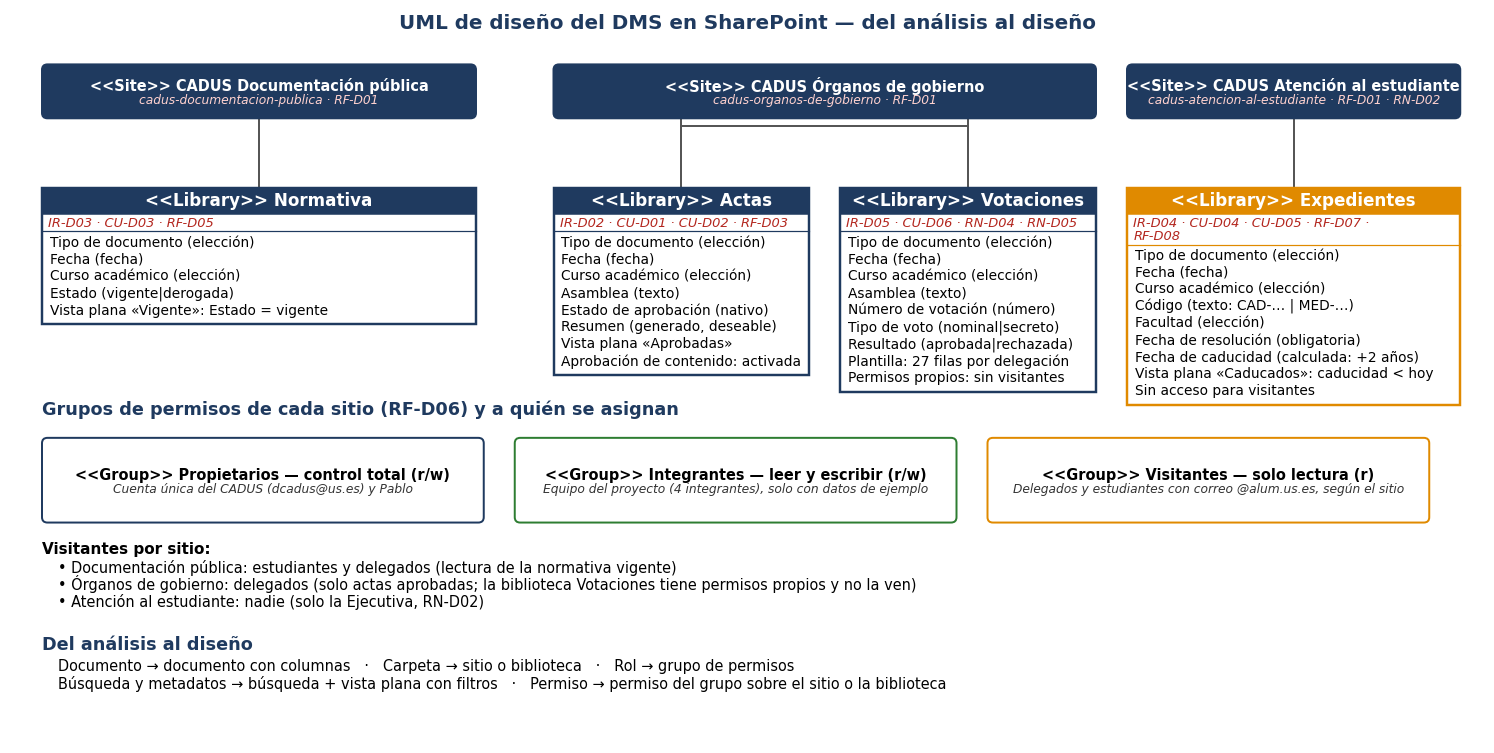
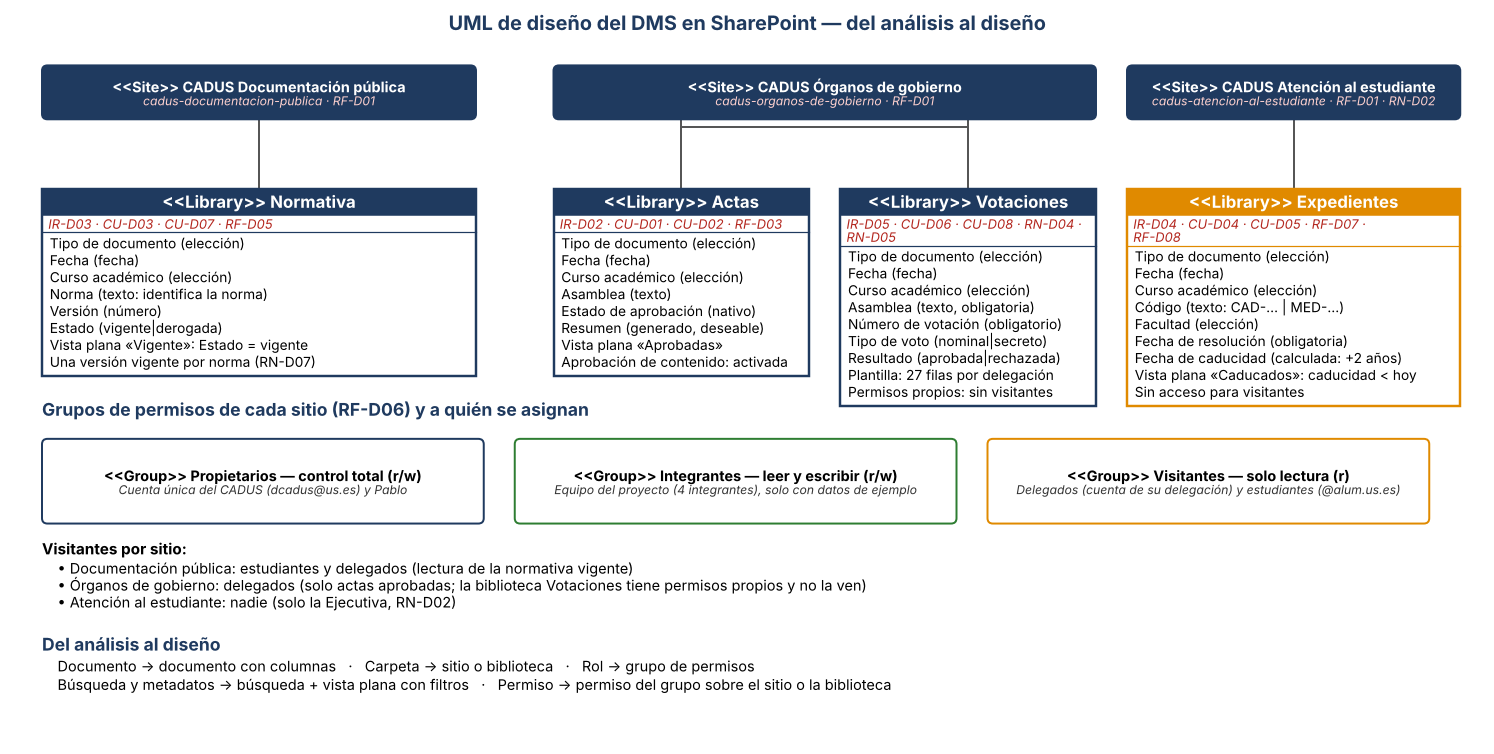
docs(dms): diagramas con 8 casos de uso, columnas Norma y Version y cuenta por delegacion

diff --git a/scripts/dms/diagramas_dms.py b/scripts/dms/diagramas_dms.py
@@ -19,13 +19,13 @@ def analisis():
     W = 340
     carp = clase(ax, 30, 70, W, "Carpeta", "<<Folder>> · RF-D01 · RF-D06", ["nombre (Actas, Normativa,", "   Expedientes, Votaciones)"], VERDE)
     perm = clase(ax, 30, 390, W, "Permiso", "<<Permission>> · RF-D06 · RF-D03 · RN-D01 · RN-D02", ["nivel (leer | leer y escribir)", "sobre una carpeta"], VERDE)
-    rol = clase(ax, 30, 700, W, "Rol", "<<Role>> · RF-D06 · ACT-D01 a ACT-D03", ["nombre (Ejecutiva|Delegado|Estudiante)"])
+    rol = clase(ax, 30, 700, W, "Rol", "<<Role>> · RF-D06 · ACT-D01 a ACT-D03", ["nombre (Ejecutiva|Delegado|Estudiante)", "cuenta (CADUS|delegación|@alum.us.es)"])
     doc = clase(ax, 900, 70, W, "Documento", "<<Document>> · IR-D01 · IR-D06 · RF-D02 · RN-D06", ["tipoDocumento", "fecha", "cursoAcademico", "estado"])
     busq = clase(ax, 1500, 70, 360, "Busqueda", "<<Search>> · RF-D04 · RF-D05 · UI-D02", ["texto (nombre y contenido)", "filtros por metadatos (vista plana)"], VERDE)
     acta = clase(ax, 420, 390, W, "Acta", "<<Document>> · IR-D02 · CU-D01 · CU-D02 · RN-D01", ["asamblea", "estadoAprobacion (borrador|aprobada)", "resumen (deseable, RF-D10)"])
-    norm = clase(ax, 780, 390, W, "Normativa", "<<Document>> · IR-D03 · CU-D03", ["titulo", "anio", "estado (vigente|derogada)"])
+    norm = clase(ax, 780, 390, W, "Normativa", "<<Document>> · IR-D03 · CU-D03 · CU-D07 · RN-D07", ["titulo", "norma (identifica la misma norma)", "version, anio", "estado (vigente|derogada)"])
     exp = clase(ax, 1140, 390, W, "Expediente", "<<Document>> · IR-D04 · CU-D04 · CU-D05 · RF-D07 · RN-D02 · RN-D03", ["codigo (CAD-… | MED-…)", "facultad", "fechaResolucion", "fechaCaducidad (calculada)"])
-    vot = clase(ax, 1500, 390, W + 20, "RegistroVotacion", "<<Document>> · IR-D05 · CU-D06 · RN-D04 · RN-D05", ["asamblea, numeroVotacion", "tipoVoto (nominal|secreto)", "resultado", "27 filas: presente, identidad", "voto (solo si es nominal)"])
+    vot = clase(ax, 1500, 390, W + 20, "RegistroVotacion", "<<Document>> · IR-D05 · CU-D06 · CU-D08 · RN-D04 · RN-D05", ["asamblea, numeroVotacion (obligatorios)", "tipoVoto (nominal|secreto)", "resultado", "27 filas: presente, identidad", "voto (solo si es nominal)"])
     for sub in (acta, norm, exp, vot):
         rel(ax, sub, "arr", doc, "abj", "")
     ax.text(1070, 300, "es un tipo de", ha="center", fontsize=8.5, bbox=dict(fc="white", ec="none", pad=1.2), zorder=6)
@@ -33,7 +33,7 @@ def analisis():
     rel(ax, perm, "arr", carp, "abj", "se concede sobre", "*", "1", dx=64, dy=0)
     rel(ax, rol, "arr", perm, "abj", "tiene", "1", "*", dx=40, dy=0)
     rel(ax, busq, "izq", doc, "der", "encuentra", "*", "*", dy=-18)
-    ax.text(30, 880, "Los casos de uso CU-D01 a CU-D06 y las reglas RN-D01 a RN-D06 están en REM-DMS.md. Los metadatos (IR-D06) son las columnas de Documento; la vista plana (RF-D05) es la forma de aplicar los filtros.", fontsize=8.5, color="#555")
+    ax.text(30, 880, "Los casos de uso CU-D01 a CU-D08 y las reglas RN-D01 a RN-D07 están en REM-DMS.md. Los metadatos (IR-D06) son las columnas de Documento; la vista plana (RF-D05) es la forma de aplicar los filtros.", fontsize=8.5, color="#555")
     guardar(fig, "uml-dms-analisis.png")
 
 
@@ -48,9 +48,9 @@ def diseno():
     for (x, n, t), w in zip(sitios, anchos):
         caja(ax, x, 70, w, 70, "<<Site>> " + n, t, fc=AZUL, ec=AZUL, subcolor="#ffd2cf", titcolor="white")
     cols_comunes = ["Tipo de documento (elección)", "Fecha (fecha)", "Curso académico (elección)"]
-    norm = clase(ax, 40, 230, 560, "<<Library>> Normativa", "IR-D03 · CU-D03 · RF-D05", cols_comunes + ["Estado (vigente|derogada)", "Vista plana «Vigente»: Estado = vigente"])
+    norm = clase(ax, 40, 230, 560, "<<Library>> Normativa", "IR-D03 · CU-D03 · CU-D07 · RF-D05", cols_comunes + ["Norma (texto: identifica la norma)", "Versión (número)", "Estado (vigente|derogada)", "Vista plana «Vigente»: Estado = vigente", "Una versión vigente por norma (RN-D07)"])
     actas = clase(ax, 700, 230, 330, "<<Library>> Actas", "IR-D02 · CU-D01 · CU-D02 · RF-D03", cols_comunes + ["Asamblea (texto)", "Estado de aprobación (nativo)", "Resumen (generado, deseable)", "Vista plana «Aprobadas»", "Aprobación de contenido: activada"])
-    votac = clase(ax, 1070, 230, 330, "<<Library>> Votaciones", "IR-D05 · CU-D06 · RN-D04 · RN-D05", cols_comunes + ["Asamblea (texto)", "Número de votación (número)", "Tipo de voto (nominal|secreto)", "Resultado (aprobada|rechazada)", "Plantilla: 27 filas por delegación", "Permisos propios: sin visitantes"])
+    votac = clase(ax, 1070, 230, 330, "<<Library>> Votaciones", "IR-D05 · CU-D06 · CU-D08 · RN-D04 · RN-D05", cols_comunes + ["Asamblea (texto, obligatoria)", "Número de votación (obligatorio)", "Tipo de voto (nominal|secreto)", "Resultado (aprobada|rechazada)", "Plantilla: 27 filas por delegación", "Permisos propios: sin visitantes"])
     exp = clase(ax, 1440, 230, 430, "<<Library>> Expedientes", "IR-D04 · CU-D04 · CU-D05 · RF-D07 · RF-D08", cols_comunes + ["Código (texto: CAD-… | MED-…)", "Facultad (elección)", "Fecha de resolución (obligatoria)", "Fecha de caducidad (calculada: +2 años)", "Vista plana «Caducados»: caducidad < hoy", "Sin acceso para visitantes"], NARANJA)
     for (x, _, _), (lib, w) in zip(sitios, ((norm, 0), (actas, 0), (exp, 0))):
         pass
@@ -64,7 +64,7 @@ def diseno():
     ax.text(40, 525, "Grupos de permisos de cada sitio (RF-D06) y a quién se asignan", fontsize=11.5, fontweight="bold", color=AZUL)
     grupos = [("<<Group>> Propietarios", "control total (r/w)", "Cuenta única del CADUS (dcadus@us.es) y Pablo", AZUL),
               ("<<Group>> Integrantes", "leer y escribir (r/w)", "Equipo del proyecto (4 integrantes), solo con datos de ejemplo", VERDE),
-              ("<<Group>> Visitantes", "solo lectura (r)", "Delegados y estudiantes con correo @alum.us.es, según el sitio", NARANJA)]
+              ("<<Group>> Visitantes", "solo lectura (r)", "Delegados (cuenta de su delegación) y estudiantes (@alum.us.es)", NARANJA)]
     for i, (n, nivel, quien, c) in enumerate(grupos):
         x = 40 + i * 610
         caja(ax, x, 555, 570, 110, n + " — " + nivel, quien, fc="white", ec=c, subcolor="#333")
@@ -83,27 +83,29 @@ def diseno():
 
 
 def casos_de_uso():
-    fig, ax = lienzo(1500, 860)
+    fig, ax = lienzo(1500, 880)
     ax.text(750, 24, "Casos de uso del DMS del CADUS", ha="center", fontsize=13, fontweight="bold", color=AZUL)
-    actores = [("Ejecutiva del CADUS", "ACT-D01 · propietario (r/w)", 250), ("Delegado", "ACT-D02 · visitante (r)", 450), ("Estudiante", "ACT-D03 · visitante (r)", 690)]
+    actores = [("Ejecutiva del CADUS", "ACT-D01 · propietario (r/w)", 330), ("Delegado", "ACT-D02 · visitante (r) · de la delegación", 520), ("Estudiante", "ACT-D03 · visitante (r) · @alum.us.es", 700)]
     pos = {}
     for n, t, y in actores:
-        caja(ax, 40, y - 35, 260, 70, n, t)
-        pos[n] = (300, y)
-    casos = [("CU-D01 Redactar, aprobar y archivar un acta", "Acta · RF-D01, D02, D03, D09", 110, "Ejecutiva del CADUS"),
-             ("CU-D02 Consultar las actas aprobadas", "Acta · RF-D03 a D06, D10", 230, "Delegado"),
-             ("CU-D03 Consultar la normativa vigente", "Normativa · RF-D04 a D06", 350, "Estudiante"),
-             ("CU-D04 Archivar un expediente resuelto", "Expediente · RF-D01, D02, D07", 470, "Ejecutiva del CADUS"),
-             ("CU-D05 Retirar los expedientes caducados", "Expediente · RF-D07, D08", 590, "Ejecutiva del CADUS"),
-             ("CU-D06 Registrar el resultado de una votación", "Registro de votación · RF-D01, D02, D09", 710, "Ejecutiva del CADUS")]
+        caja(ax, 20, y - 35, 340, 70, n, t)
+        pos[n] = (360, y)
+    casos = [("CU-D01 Redactar, aprobar y archivar un acta", "Acta · RF-D01, D02, D03, D09", 100, "Ejecutiva del CADUS"),
+             ("CU-D02 Consultar las actas aprobadas", "Acta · RF-D03 a D06, D10", 190, "Delegado"),
+             ("CU-D03 Consultar la normativa vigente", "Normativa · RF-D04 a D06", 280, "Estudiante"),
+             ("CU-D04 Archivar un expediente resuelto", "Expediente · RF-D01, D02, D07", 370, "Ejecutiva del CADUS"),
+             ("CU-D05 Retirar los expedientes caducados", "Expediente · RF-D07, D08", 460, "Ejecutiva del CADUS"),
+             ("CU-D06 Registrar el resultado de una votación", "Registro de votación · RF-D01, D02, D09", 550, "Ejecutiva del CADUS"),
+             ("CU-D07 Publicar una versión nueva de una norma", "Normativa · RF-D02, D05, D06, RN-D07", 640, "Ejecutiva del CADUS"),
+             ("CU-D08 Consultar los registros de votaciones", "Registro de votación · RF-D05, D06, RN-D04, D05", 730, "Ejecutiva del CADUS")]
     for n, t, y, a in casos:
         caja(ax, 760, y - 32, 640, 64, n, t, fc="#eef7ee", ec=VERDE)
         px, py = pos[a]
         ax.plot([px, 760], [py, y], color="#666", lw=1.2, zorder=1)
     # el delegado también consulta la normativa
     px, py = pos["Delegado"]
-    ax.plot([px, 760], [py, 350], color="#666", lw=1.2, zorder=1)
-    ax.text(40, 830, "Cada tipo de documento tiene al menos un caso de uso; el acta y el expediente tienen dos. El delegado también consulta la normativa (CU-D03).", fontsize=9, color="#555")
+    ax.plot([px, 760], [py, 280], color="#666", lw=1.2, zorder=1)
+    ax.text(40, 850, "Cada tipo de documento tiene dos casos de uso (ocho en total). El delegado también consulta la normativa (CU-D03).", fontsize=9, color="#555")
     guardar(fig, "casos-de-uso-dms.png")
 
 
